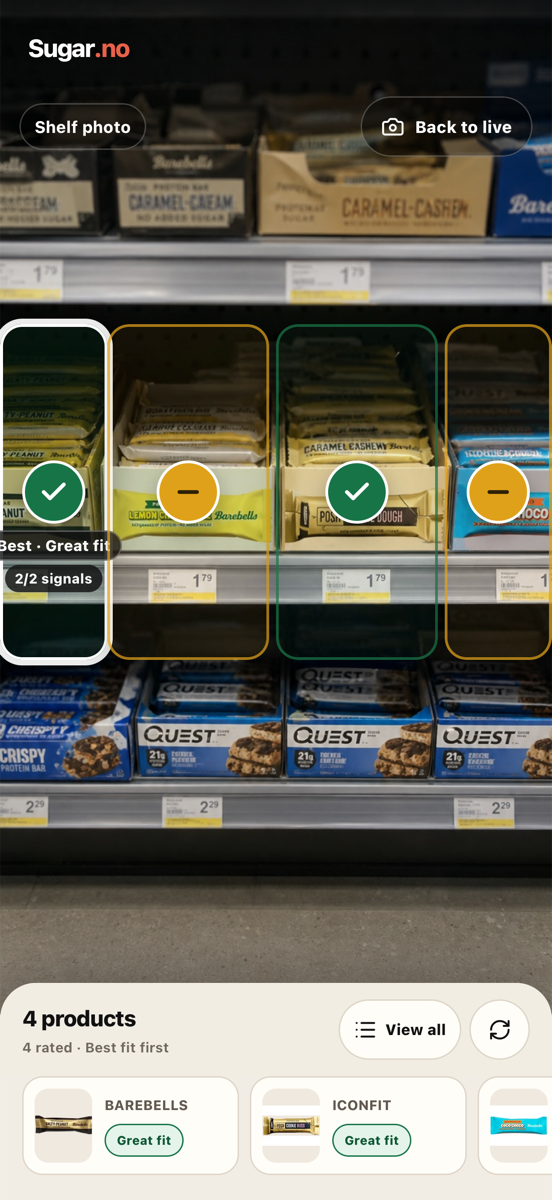
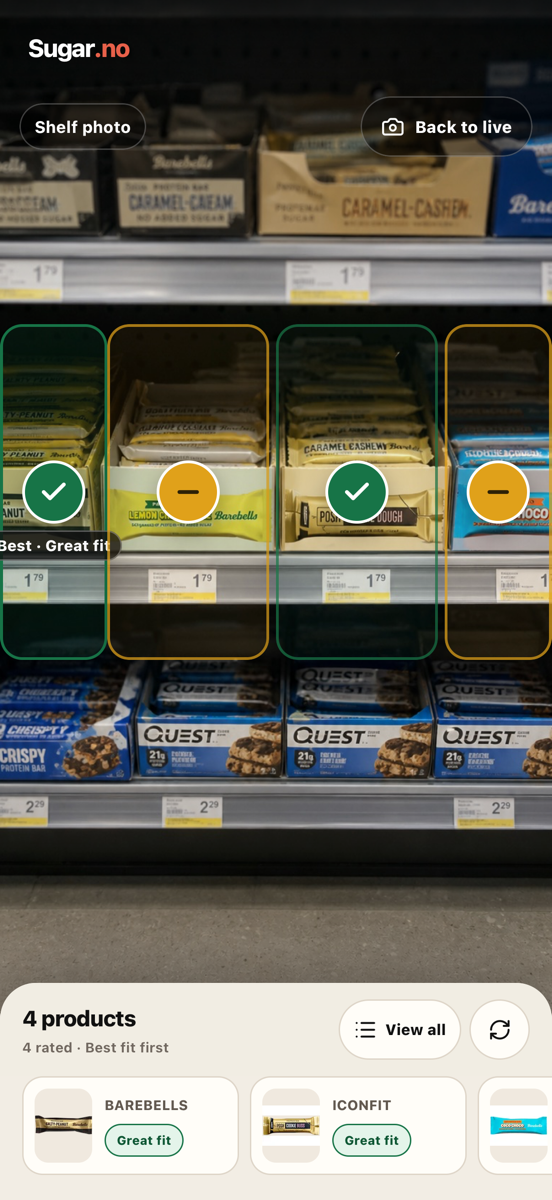
Simplify camera fit overlays

Changed region(s): [[0.0, 0.2467, 0.2156, 0.555]]

diff --git a/tests/e2e/scanner.spec.ts b/tests/e2e/scanner.spec.ts
@@ -154,6 +154,24 @@ test("sample shelf photo highlights products and shows a two-factor Sugar.no bad
     [...document.querySelectorAll<HTMLImageElement>('div[aria-label="Sample shelf photo with four supported protein snacks"] img')]
       .every((image) => image.complete && image.naturalWidth > 0)
   );
+  const shelfOverlay = page.getByLabel("Shelf photo scanner");
+  await expect(shelfOverlay.getByText("2/2 signals", { exact: true })).toHaveCount(0);
+  const bestMarker = shelfOverlay.locator('button[aria-label*="best in this scan"]').first();
+  const bestChrome = await bestMarker.evaluate((element) => {
+    const style = getComputedStyle(element);
+    return { borderColor: style.borderColor, boxShadow: style.boxShadow };
+  });
+  expect(bestChrome.borderColor).not.toBe("rgb(255, 255, 255)");
+  expect(bestChrome.boxShadow).not.toContain("rgb(255, 255, 255)");
+  const moderateMarker = shelfOverlay.locator('button[aria-label*="Moderate fit"]').first();
+  await moderateMarker.click();
+  const selectedChrome = await moderateMarker.evaluate((element) => {
+    const style = getComputedStyle(element);
+    return { borderColor: style.borderColor, boxShadow: style.boxShadow };
+  });
+  expect(selectedChrome.borderColor).not.toBe("rgb(255, 255, 255)");
+  expect(selectedChrome.boxShadow).not.toContain("rgb(255, 255, 255)");
+  await bestMarker.click();
   await waitForAlternativeImages(page);
   await page.screenshot({ path: "docs/screenshots/shelf-mobile.png", fullPage: true });
   await page.getByRole("button", { name: "View all", exact: true }).click();
@@ -1132,7 +1150,17 @@ test("an exact Barbora food gets an on-demand two-factor Sugar.no fit", async ({
 
   await expect(page.getByRole("status")).toContainText("Products found. Checking Sugar.no signals");
   await expect(page.getByText("Checking nutrition…", { exact: true })).toBeVisible();
-  await expect(page.getByLabel("Saved shelf or checkout photo scanner").locator('button[aria-label*="2/2 signals"]')).toHaveCount(1);
+  const cameraOverlay = page.getByLabel("Saved shelf or checkout photo scanner");
+  const ratedMarker = cameraOverlay.locator('button[aria-label^="Open "]').first();
+  await expect(ratedMarker).toBeVisible();
+  await expect(ratedMarker).not.toHaveAttribute("aria-label", /signals/i);
+  await expect(cameraOverlay.getByText("2/2 signals", { exact: true })).toHaveCount(0);
+  const markerChrome = await ratedMarker.evaluate((element) => {
+    const style = getComputedStyle(element);
+    return { borderColor: style.borderColor, boxShadow: style.boxShadow };
+  });
+  expect(markerChrome.borderColor).not.toBe("rgb(255, 255, 255)");
+  expect(markerChrome.boxShadow).not.toContain("rgb(255, 255, 255)");
   await expect(page.getByRole("status")).toContainText("1 product · 1 with Sugar.no fit");
   await page.getByRole("button", { name: "View all", exact: true }).click();
   const resultsDialog = page.getByRole("dialog", { name: "Products from this scan" });

diff --git a/src/components/scanner-app.module.css b/src/components/scanner-app.module.css
@@ -455,14 +455,14 @@
 }
 
 .selectedBox {
-  border-color: #ffffff;
+  border-color: var(--tone, #ffffff);
   background: color-mix(in srgb, var(--tone, #ffffff) 14%, transparent);
-  box-shadow: 0 0 0 3px var(--tone), 0 12px 34px rgb(0 0 0 / 32%);
+  box-shadow: 0 12px 34px rgb(0 0 0 / 32%);
 }
 
 .bestBox {
-  border-color: #ffffff;
-  box-shadow: 0 0 0 4px rgb(255 255 255 / 92%), 0 14px 36px rgb(0 0 0 / 38%);
+  border-color: var(--tone, #ffffff);
+  box-shadow: 0 14px 36px rgb(0 0 0 / 38%);
 }
 
 .bestBox span {
@@ -503,26 +503,6 @@
   line-height: 14px;
   transform: translateX(-50%);
   white-space: nowrap;
-}
-
-.detectionBox span small {
-  position: absolute;
-  top: 74px;
-  left: 50%;
-  min-height: 20px;
-  padding: 3px 7px;
-  border-radius: 999px;
-  background: rgb(17 17 17 / 82%);
-  color: #ffffff;
-  font-size: 10px;
-  font-weight: 780;
-  line-height: 14px;
-  transform: translateX(-50%);
-  white-space: nowrap;
-}
-
-.completenessFull:not(.selectedBox):not(.bestBox) span small {
-  opacity: 0;
 }
 
 .detectionBox:not(.selectedBox) span strong {

diff --git a/src/components/scanner-app.tsx b/src/components/scanner-app.tsx
@@ -1048,12 +1048,11 @@ export function ScannerApp() {
                     setSelectedId(detection.productId);
                     track("result_opened", source, detection.productId);
                   }}
-                  aria-label={`Open ${displayName}: ${presentation.label}, ${presentation.completenessLabel}${isBest ? ", best in this scan" : ""}`}
+                  aria-label={`Open ${displayName}: ${presentation.label}${isBest ? ", best in this scan" : ""}`}
                 >
                   <span>
                     <OverlayToneIcon tone={presentation.tone} />
                     <strong>{isBest ? `Best · ${presentation.label}` : presentation.label}</strong>
-                    <small>{presentation.completenessLabel}</small>
                   </span>
                 </button>
               );

diff --git a/docs/product-qa.md b/docs/product-qa.md
@@ -9,7 +9,7 @@ Run this check on the deployed HTTPS URL using Safari on an iPhone. Use a privat
 3. Tap `Show demo`, then `Shelf demo`. Confirm that the camera scene fills the phone and four markers appear directly over the four supported packages. Rated markers must say `Great fit`, `Moderate fit` or `Low fit`; neutral identities must not masquerade as rated picks.
 4. Confirm that only a compact bottom sheet overlays the shelf. It should say `4 products · 4 with Sugar.no fit`, show product thumbnails and expose `View all`. Tap it and confirm it expands into a full-height comparison page; collapse it and confirm the held shelf returns unchanged.
 5. In the expanded page, confirm that the recognized products form one vertical `Best fit first` list. Rated products must run from higher to lower Sugar.no fit, show their plain-language fit plus Protein/Sugar values and use rank numbers. Any product without a verified full fit must be last as `Needs nutrition label` without a rank number. Confirm that the leading comparable product says `Best fit in this scan` as a small heading above its brand and name, not as a separate pill beneath the Sugar.no badge. Confirm that Fiber and unexplained numeric scores such as `86` do not appear.
-6. Tap each marker and each product in the ranked list. Confirm that the corresponding marker gets the white selected ring, its text appears and the product card changes.
+6. Tap each marker and each product in the ranked list. Confirm that its fit text appears and the product card changes. The package outline must remain the fit color: no white selected/best ring and no `2/2 signals` pill may appear over the camera.
 7. Swipe the Similar options cards left and right. Confirm that they are comparable formats and remain usable without horizontal page overflow.
 8. Open the Barbora action. Confirm that the exact SKU page opens in a new tab and that Sugar.no never claims affiliate revenue.
 9. Return to live camera, tap `Show demo`, then `Checkout demo`. Confirm it shows the real checkout-belt photo and returns three named packaged products at once: Sproud, Schnitzer and Stockmann. Because the deterministic identity fixture contains no nutrition, the expanded list must say `Scan labels to compare`, show `Needs nutrition label` on each product and show no camera fit markers or invented Sugar.no result.

diff --git a/docs/test-runs/2026-08-25-camera-overlay-cleanup.md b/docs/test-runs/2026-08-25-camera-overlay-cleanup.md
@@ -1,0 +1,32 @@
+# Camera overlay cleanup release check
+
+- Date: 2026-08-25, Europe/Riga
+- Scope: remove the redundant `2/2 signals` camera pill and white selected/best package frames without removing fit semantics or tap behavior.
+
+## Product rule
+
+- A rated package keeps its green, yellow or coral outline and icon.
+- Tapping a package may reveal its `Great fit`, `Moderate fit` or `Low fit` label and select the matching result card.
+- The camera never repeats `2/2 signals`; Protein and Sugar evidence remains in the compact and full comparison views.
+- Selected and best packages do not add a white border or white outer ring.
+
+## Technical checks
+
+| Check | Result |
+| --- | --- |
+| `npm run verify` | Pass: ESLint, TypeScript, 20 Vitest files with 109 tests, Next.js production build and standalone preparation |
+| `CI=1 npm run test:e2e` | Pass: 21 of 21 Mobile Safari scenarios in 56.7 seconds |
+| Camera copy regression | Pass: camera overlay contains no visible `2/2 signals` and no `signals` text in marker accessibility names |
+| Selected marker regression | Pass: after selecting a Moderate fit marker, its computed border and shadow contain no white frame or ring |
+| Best marker regression | Pass: the best marker keeps its semantic fit-colored outline with no white border or outer ring |
+| Accessibility and responsive coverage | Pass: automated WCAG A/AA, reduced motion, dark mode, enlarged text, 375 px phone, iPhone 17 Pro and phone landscape scenarios |
+
+Visual evidence was regenerated in `docs/screenshots/shelf-mobile.png`, `docs/screenshots/iphone-17-pro-camera.png` and `docs/screenshots/iphone-17-pro-landscape.png`.
+
+## Product check after deployment
+
+1. Open the Shelf demo and tap several markers.
+2. Confirm no marker shows `2/2 signals`.
+3. Confirm every package outline remains its fit color before and after selection; no white selected or best frame appears.
+4. Confirm the selected fit label and matching product card still update.
+5. Open `View all` and confirm Protein and Sugar values remain available there.

diff --git a/docs/acceptance.md b/docs/acceptance.md
@@ -24,6 +24,7 @@ Status reflects reproducible evidence in this repository, not the intended final
 | Conflicting retailer brand | Coca-Cola/Pepsi brand regression is rejected before any offer is returned; possible matches have no UI link | Pass locally |
 | Price requires shelf label | Unit regression requires a separate-label signal, confidence ≥0.90 and matching EUR text; browser regression confirms no price module without that evidence and no retailer link for a non-exact SKU | Pass locally |
 | Camera focuses on Sugar.no ratings | Complete protein-plus-sugar fits use `Great / Moderate / Low` markers. One-factor and identity-only detections remain available in the result sheet but never receive a camera marker, overall fit or misleading approval icon | Pass locally |
+| Camera overlay stays visually focused | Rated markers show the fit icon and selected fit label without a redundant `2/2 signals` pill. Selected and best packages keep their fit-colored outline and never add a white frame | Pass locally |
 | Unrated result is actionable | The expanded result omits the repeated fit legend, labels the row `Needs nutrition label` and provides one 48 px primary recovery action rather than a passive `Identified` state | Pass locally |
 | Best-in-scan hierarchy | The label appears as an eyebrow heading above the product name only for two or more results with the same rating basis; a one-product regression proves it stays absent | Pass locally |
 | Nutrition never invented by AI | Main recognition hydrates curated, exact Barbora or exact Open Food Facts nutrition. Label mode may transcribe one visible per-100 table, but server-side OCR consistency, basis, confidence and plausibility checks reject ambiguous values | Pass |

diff --git a/README.md b/README.md
@@ -23,7 +23,7 @@ The app is a working mobile-first web/PWA concept with:
 - on-demand two-factor Sugar.no fits for exact Barbora foods when energy, protein and total sugar are available;
 - exact GTIN/EAN nutrition fallback through Open Food Facts, with strict variant and pack-size guards;
 - a dedicated `Scan nutrition label` recovery step that reads one clear per-100 table when no exact product record can supply a fit;
-- photorealistic concept scenes with compact green-check, yellow-minus and coral-alert markers placed only over products with a numeric Sugar.no result;
+- photorealistic concept scenes with compact green-check, yellow-minus and coral-alert markers placed only over products with a numeric Sugar.no result; camera markers use one fit label and the fit-colored package outline, without a redundant `2/2 signals` pill or a white selected/best ring;
 - a camera-first full-viewport scanner with Sugar.no overlays and a compact bottom results sheet that shows product thumbnails, then expands into a dedicated comparison page;
 - normalized detection boxes, de-duplicated scan results, similar options and exact Barbora product links;
 - a vertical expanded ranking that puts the highest verified Sugar.no fit first, keeps `Great / Moderate / Low fit` attached to every rated row and places unrated identities last as `Needs nutrition label`;

diff --git a/Bugs.md b/Bugs.md
@@ -1,5 +1,7 @@
 # Bugs
 
+- **2026-08-25: camera markers repeated `2/2 signals` and selected/best products gained a heavy white frame.** The redundant signal pill was removed from the camera overlay and its accessibility label. Selected and best markers now keep only the semantic fit-colored package outline plus stable shadow, while detailed Protein/Sugar evidence remains in the comparison sheet.
+
 - **2026-08-24: multi-product results appeared as an unordered horizontal tray, so users could not immediately see which product fit them more or less.** The expanded comparison now presents one vertical `Best fit first` list. Products with a complete Protein/Sugar fit are sorted high to low, every rated row keeps the plain-language `Great / Moderate / Low fit` label and verified values, and unrated identities stay last as `Needs nutrition label` without a fabricated rank.
 
 - **2026-08-24: the production-mode shelf-completion regression used a fixed 2.5-second pause and could inspect the request count just before the browser scheduled its second frame.** The test now waits for the actual second request with a bounded five-second poll, preserving the same product assertion without a timing race.
